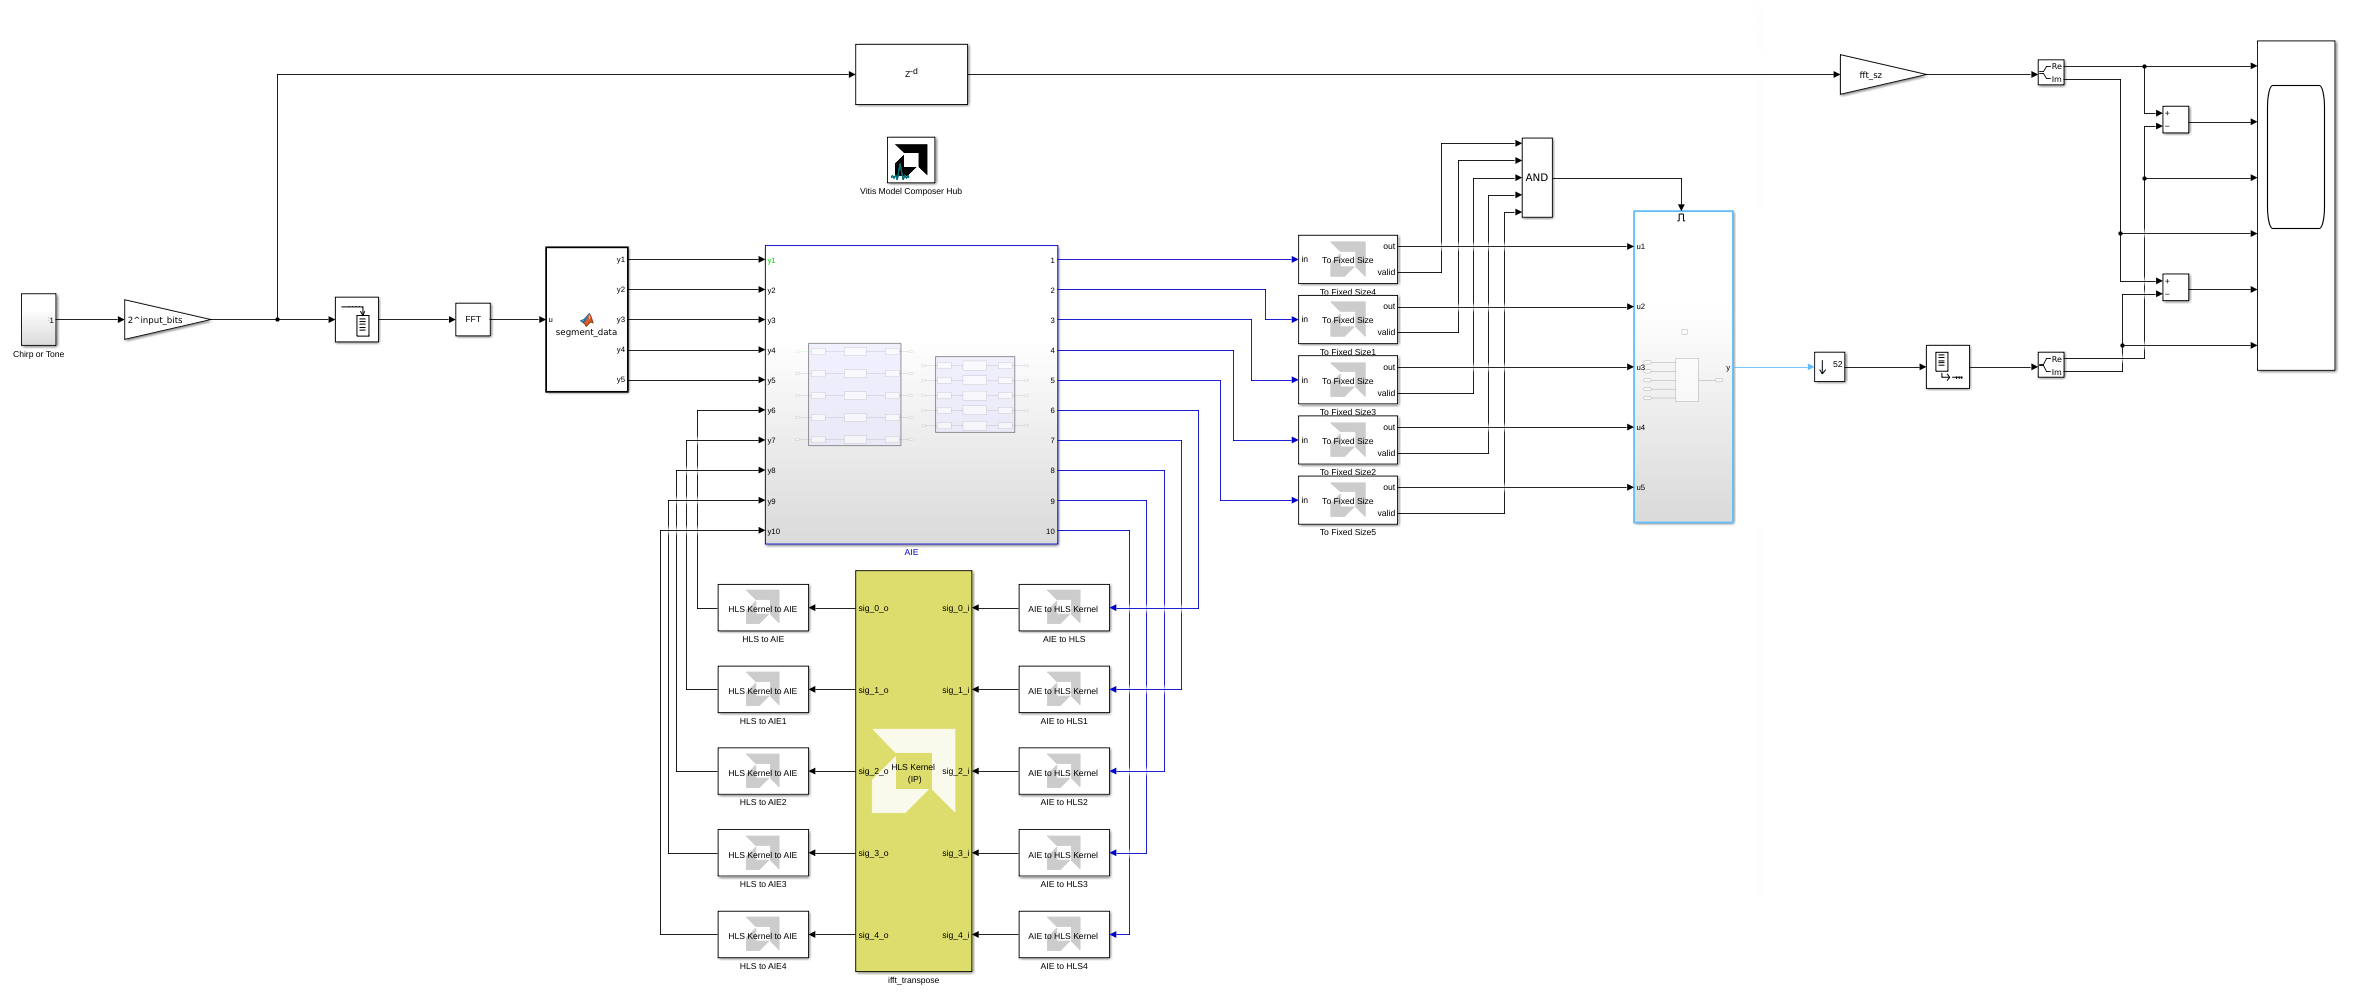
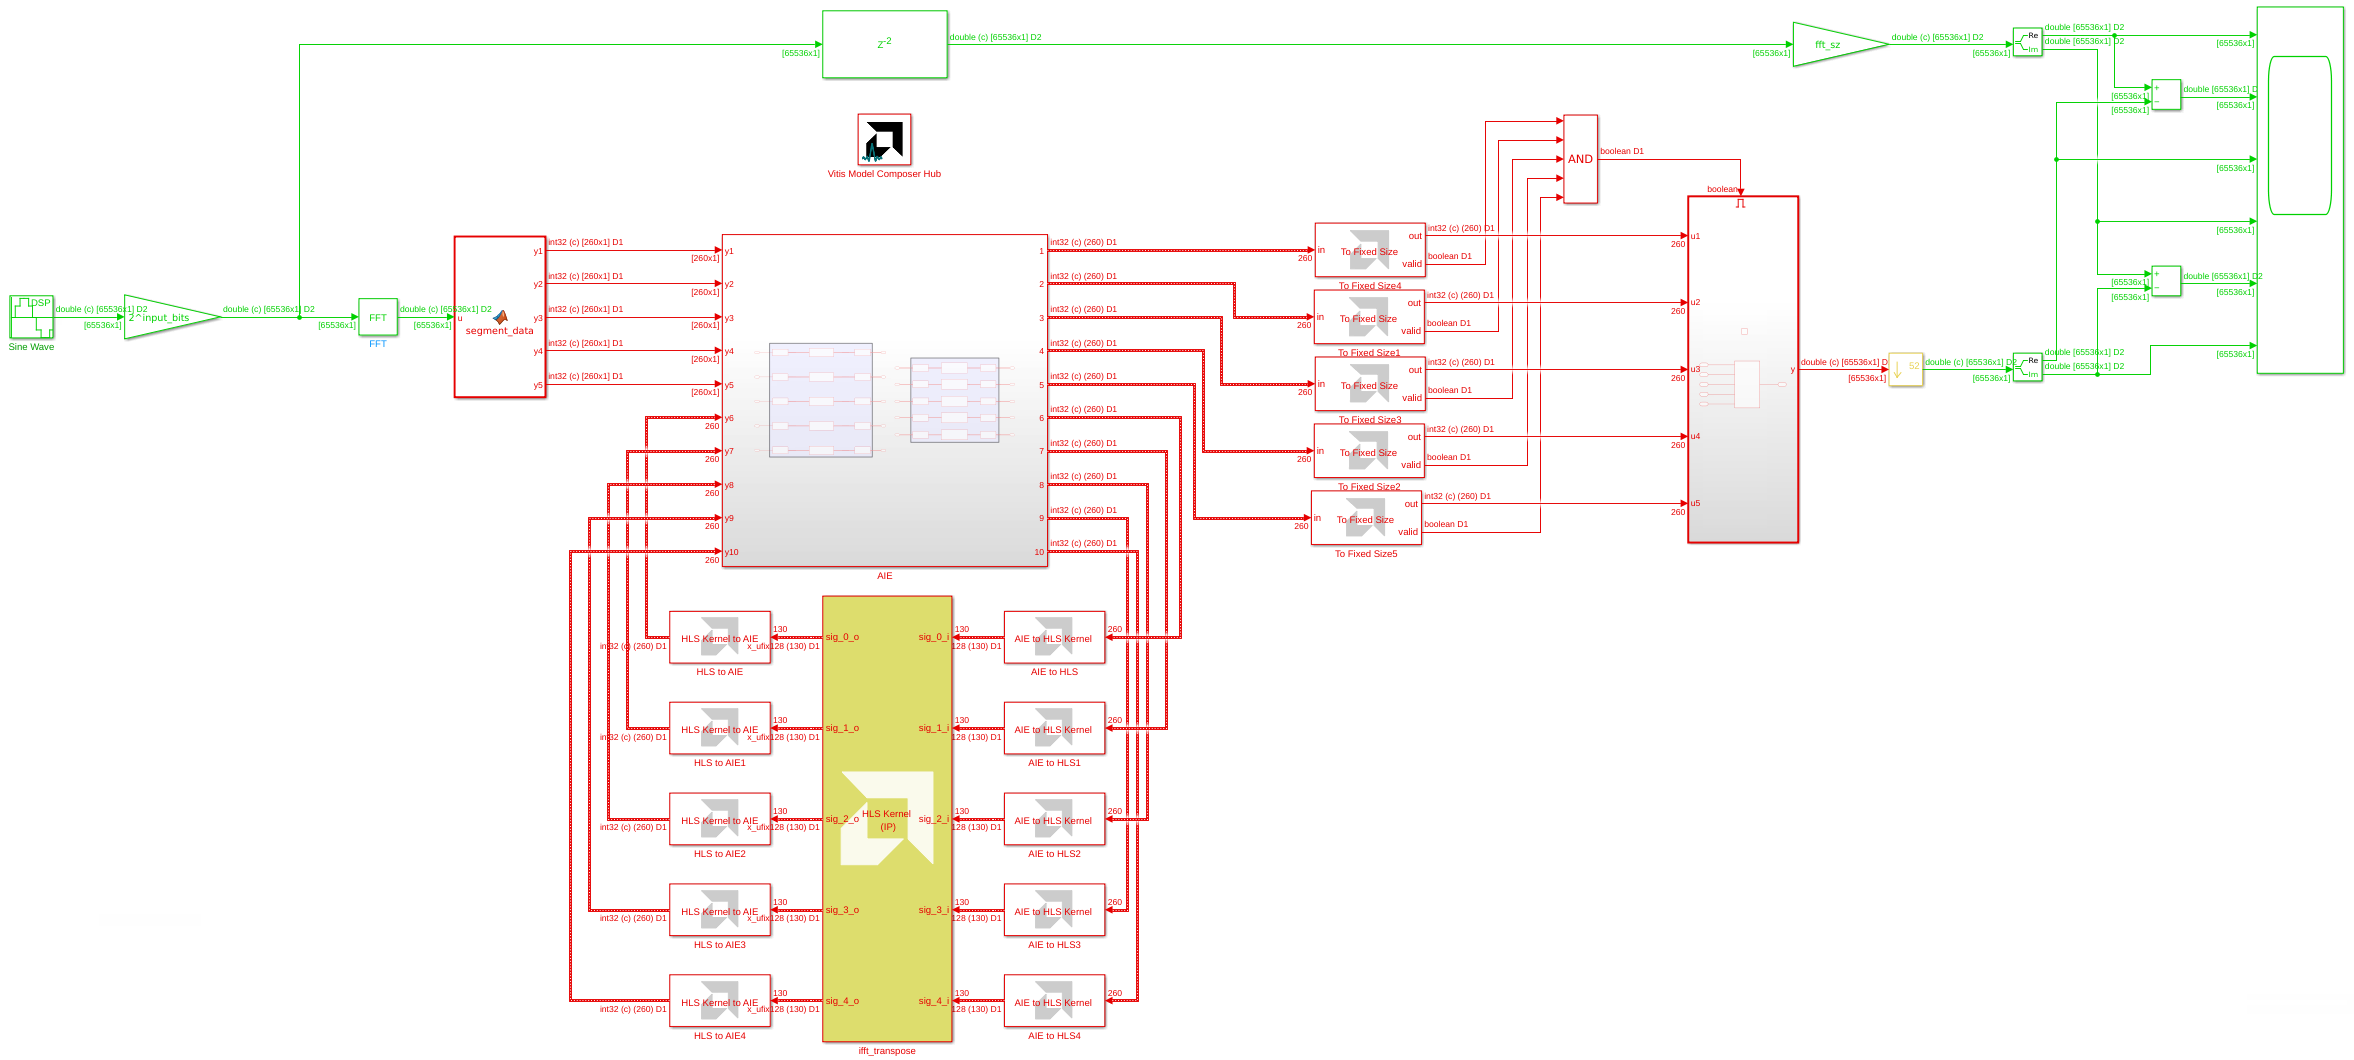
Remove buffer blocks from IFFT example

Changed region(s): [[0.0, 0.0935, 0.8993, 0.997], [0.7443, 0.0, 1.0, 0.3739], [0.3101, 0.0312, 0.4342, 0.2181]]

diff --git a/Examples/AIENGINE_plus_PL/AIE_HLS/IFFT64K_2D/README.html b/Examples/AIENGINE_plus_PL/AIE_HLS/IFFT64K_2D/README.html
@@ -38,9 +38,7 @@ document.location=commandURI
 <h2 id="simulink-model">Simulink Model</h2>
 <p>The Simulink model contains a testbench that provides input to the IFFT algorithm and displays the output.</p>
 <p><img src="Images/model1.png" alt="figure1" /></p>
-<p>You can use any MATLAB code or Simulink blocks you want to generate input stimulus. In this design, the input consists of a single tone or a linear frequency sweep. The input can be selected using a switch.</p>
-<p><img src="Images/model5.png" alt="figure1" /></p>
-<p>The input signal is converted to frequency domain (using Simulink's FFT block) before being passed to the IFFT. The output of the IFFT should then be the original signal itself.</p>
+<p>You can use any MATLAB code or Simulink blocks you want to generate input stimulus. In this design, the input consists of a single tone. The input signal is converted to frequency domain (using Simulink's FFT block) before being passed to the IFFT. The output of the IFFT should then be the original signal itself.</p>
 <p>The DUT itself consists of the AI Engine design, containing the 10 IFFT kernels, connected to an HLS Kernel. The HLS Kernel performs the transpose operation, as depicted in the block diagram in the Design section above, in the PL.</p>
 <p><img src="Images/model2.png" alt="figure1" /></p>
 <h2 id="simulation-results">Simulation Results</h2>

diff --git a/Examples/AIENGINE_plus_PL/AIE_HLS/IFFT64K_2D/README.md b/Examples/AIENGINE_plus_PL/AIE_HLS/IFFT64K_2D/README.md
@@ -28,11 +28,7 @@ The Simulink model contains a testbench that provides input to the IFFT algorith
 
 ![figure1](Images/model1.png)
 
-You can use any MATLAB code or Simulink blocks you want to generate input stimulus. In this design, the input consists of a single tone or a linear frequency sweep. The input can be selected using a switch.
-
-![figure1](Images/model5.png)
-
-The input signal is converted to frequency domain (using Simulink's FFT block) before being passed to the IFFT. The output of the IFFT should then be the original signal itself.
+You can use any MATLAB code or Simulink blocks you want to generate input stimulus. In this design, the input consists of a single tone. The input signal is converted to frequency domain (using Simulink's FFT block) before being passed to the IFFT. The output of the IFFT should then be the original signal itself.
 
 The DUT itself consists of the AI Engine design, containing the 10 IFFT kernels, connected to an HLS Kernel. The HLS Kernel performs the transpose operation, as depicted in the block diagram in the Design section above, in the PL.
 
